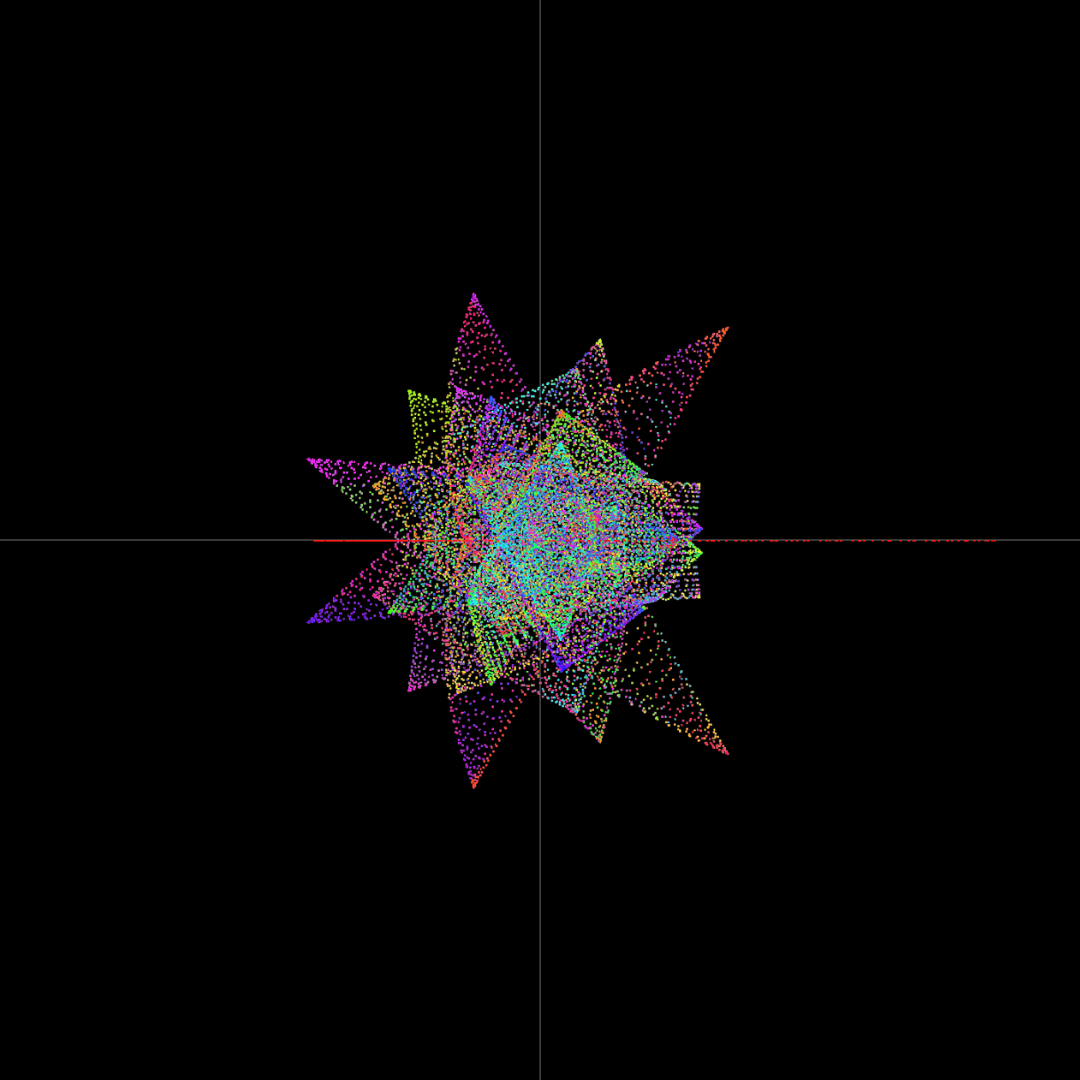
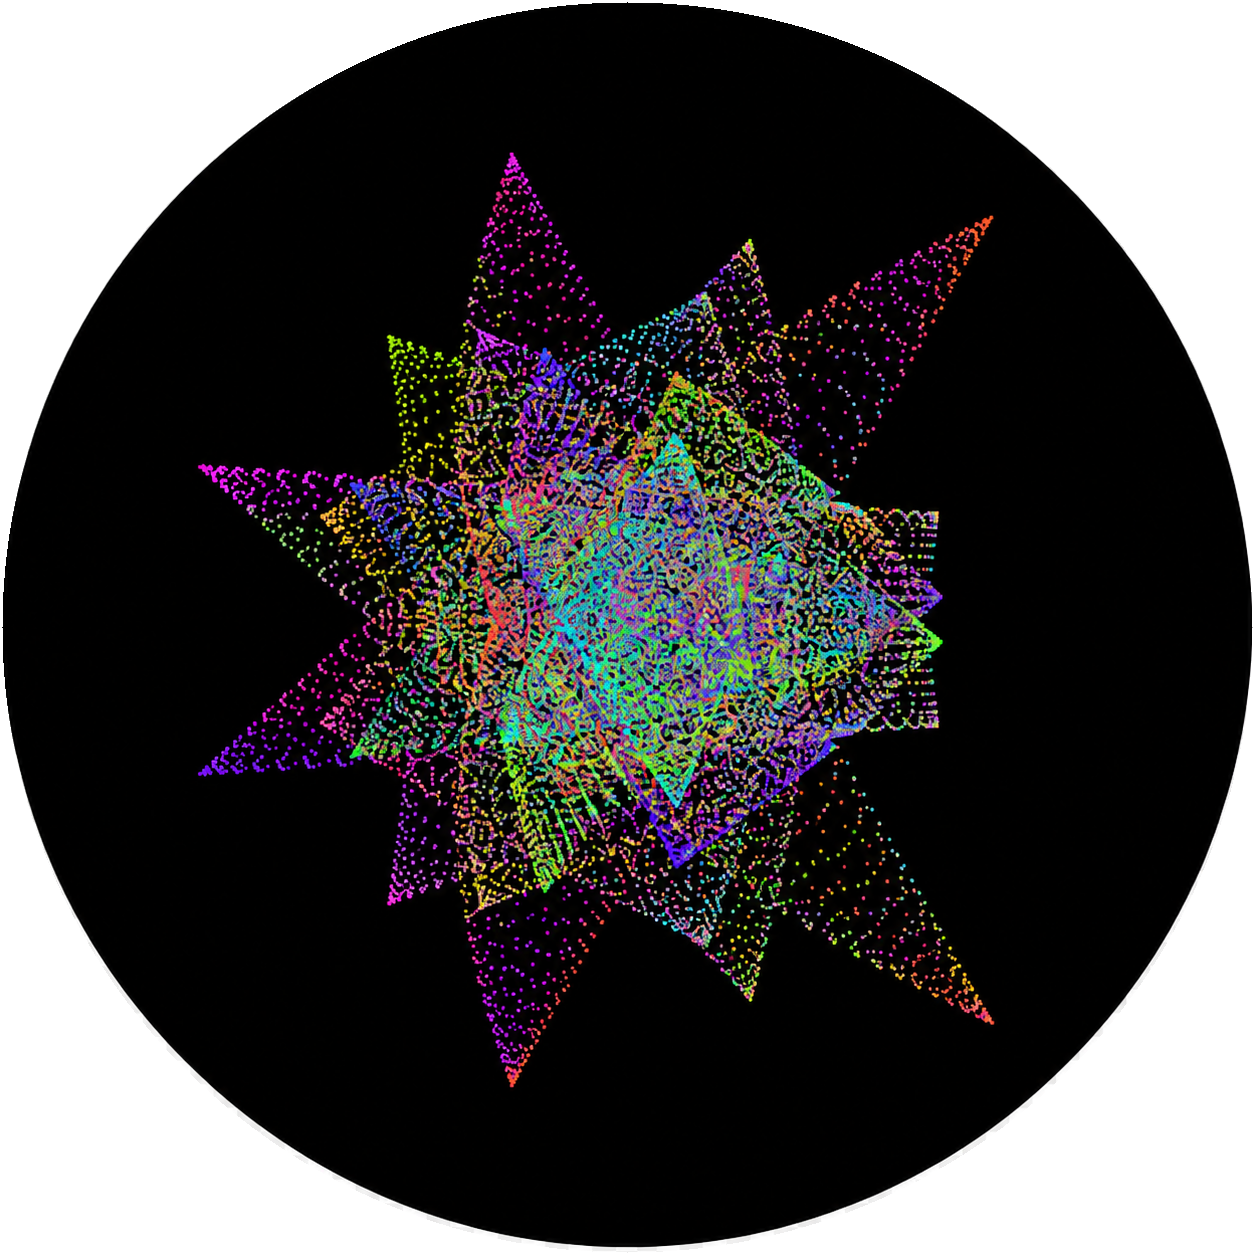
updated readme

diff --git a/styles.css b/styles.css
@@ -88,7 +88,7 @@ body {
   width: min(100%, 30rem);
   padding: 1.7rem 1.5rem 1.5rem;
   border: 1px solid rgba(255, 255, 255, 0.11);
-  border-radius: 14px;
+  border-radius: 4px;
   background:
     linear-gradient(180deg, rgba(17, 17, 17, 0.95), rgba(5, 5, 5, 0.95));
   box-shadow:
@@ -189,7 +189,7 @@ body {
 .loading-meta span {
   padding: 0.4rem 0.7rem;
   border: 1px solid rgba(255, 255, 255, 0.09);
-  border-radius: 999px;
+  border-radius: 3px;
   background: rgba(255, 255, 255, 0.03);
   color: #d7d7d7;
   font-family: 'Courier New', monospace;

diff --git a/README.md b/README.md
@@ -1,47 +1,99 @@
 # Gaussian Periods Visualizer
 
-Interactive visualization of Gaussian periods in the complex plane. Renders points based on parametric equations involving modular arithmetic, with zoom, pan, and color filtering capabilities.
+Gaussian Periods Visualizer is a small static web project for exploring Gaussian periods in the complex plane.
 
-## Features
+It includes:
 
-- **Computation**: Computes Gaussian period values using worker threads for non-blocking calculation
-- **Visualization**: Renders complex plane with points colored by residue class modulo a chosen color count
-- **Interaction**: 
-  - Drag to pan, scroll/pinch to zoom
-  - Double-click to reset, right-click to zoom out
-  - Hover to inspect individual points
-- **Export**: Download visualizations as PNG or computed data as CSV
-- **History**: Navigate between previous computations with undo/redo buttons
-- **URL State**: Shareable links with full application state encoded in URL parameters
+- a landing page that introduces the math in a more visual, approachable way
+- an interactive visualizer for plotting and inspecting points
+- a gallery of example parameter sets you can jump into directly
 
-## Project Structure
+The goal is simple: make a fairly abstract number-theory object feel concrete, explorable, and a little beautiful.
 
-The codebase is modularized into focused modules:
+## What You Can Do
 
-- **`script-refactored.js`** - Entry point; orchestrates modules and event flow
-- **`modules/math-utils.js`** - GCD, modular inverse, distinct point counting
-- **`modules/color-utils.js`** - HSV-RGB conversion, palette generation, color mapping
-- **`modules/canvas-renderer.js`** - Canvas rendering, point projection, hover grid queries
-- **`modules/viewport.js`** - Zoom/pan transformations, coordinate math
-- **`modules/event-handlers.js`** - Mouse, wheel, touch, resize event attachments
-- **`modules/computation.js`** - Input validation, computation orchestration
-- **`modules/worker-manager.js`** - Worker lifecycle management
-- **`modules/url-state.js`** - URL sync, history management, status generation
-- **`modules/state.js`** - Centralized mutable application state
-- **`modules/hover-system.js`** - Spatial hash grid for O(1) nearest-neighbor queries
+- Plot Gaussian periods from your own `n`, `omega`, and `colors` values
+- Pan, zoom, box-zoom, and reset the view
+- Hover over points to inspect coordinates
+- Track a specific `k` with both an input box and a slider
+- Animate the plot point-by-point with adjustable speed
+- Filter the view by color groups using the preview strip
+- Download the current plot as a PNG
+- Download the computed data as a CSV
+- Share a state through URL parameters
 
-## Usage
+For larger computations, the visualizer now shows a loading placeholder instead of leaving the canvas blank, so it feels clearer when work is in progress.
 
-Include in HTML:
-```html
-<script type="module" src="script-refactored.js"></script>
-```
+## Project Layout
 
-Parameters (in input fields or URL):
-- **n** - Size of the Gaussian period (≥ 2)
-- **w** - Primitive root modulo n (coprime with n)
-- **colors** - Number of color classes to visualize (divides n, < n)
+- `index.html`  
+  The landing page with the math overview, animated demos, and gallery.
 
-## Building
+- `visualizer.html`  
+  The main interactive plotting interface.
 
-No build step required—uses ES modules and `mathjs` from CDN. Worker computation runs in `worker.js`.
+- `landing.js` / `landing-styles.css`  
+  Logic and styling for the homepage experience.
+
+- `script-refactored.js` / `styles.css`  
+  Logic and styling for the visualizer.
+
+- `worker.js`  
+  Runs the Gaussian period computation off the main thread.
+
+- `modules/`  
+  Smaller focused modules for rendering, state, events, math helpers, viewport logic, and URL state.
+
+- `images/`  
+  Gallery images, favicon/title image, and UI assets.
+
+## Quick Start
+
+This project does not need a build step.
+
+1. Open `index.html` to browse the landing page, or open `visualizer.html` directly.
+2. Enter values for:
+   - `n`
+   - `omega`
+   - `colors`
+3. Click `Plot`.
+
+If you want the browser to behave more consistently with modules and local assets, it is still a good idea to serve the folder through a simple local server.
+
+## Input Notes
+
+- `n` should be an integer with `n >= 2`
+- `omega` should be an integer with `omega >= 1`
+- `omega` must be coprime to `n`
+- `colors` must be a positive proper divisor of `n`
+
+If an input is invalid, the visualizer explains the issue in the summary panel.
+
+## Interaction Cheatsheet
+
+- Drag: pan
+- Scroll or pinch: zoom
+- Double-click: reset view
+- Right-click: zoom out
+- Hover: inspect a nearby point
+- Enter: plot current values
+- Left/right arrows: move through selected color groups
+
+## A Few Nice Touches
+
+- The homepage gallery now has page dots and arrow controls for easier browsing
+- Gallery cards are square for a cleaner grid
+- The favicon/title image is now circular with real transparency
+- The status area in the visualizer has been restyled to fit the rest of the app better
+
+## Why It’s Organized This Way
+
+The visualizer started as a single script and has been split into smaller modules so the rendering logic, event handling, computation, and state management are easier to reason about independently.
+
+That makes it easier to keep experimenting with the interface without turning the math code into a mess.
+
+## Deployment
+
+The site is static and works well with GitHub Pages.
+
+If a Pages deployment fails even though the build succeeds, it may be a GitHub-side deployment issue rather than a problem in the site itself. In that case, re-running the deployment is often enough.
